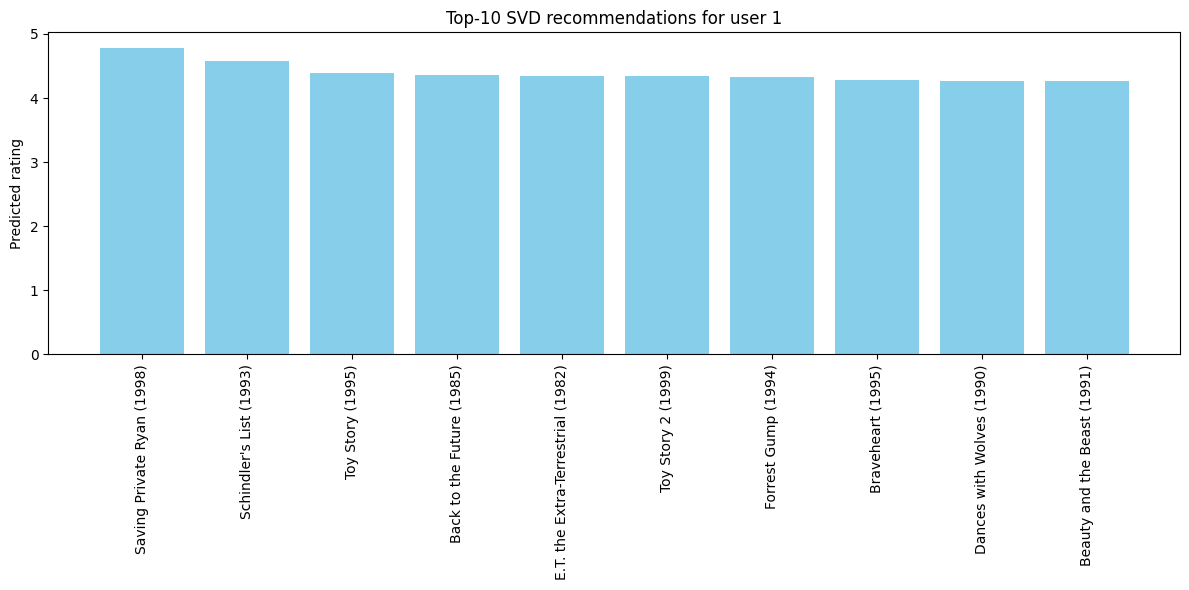
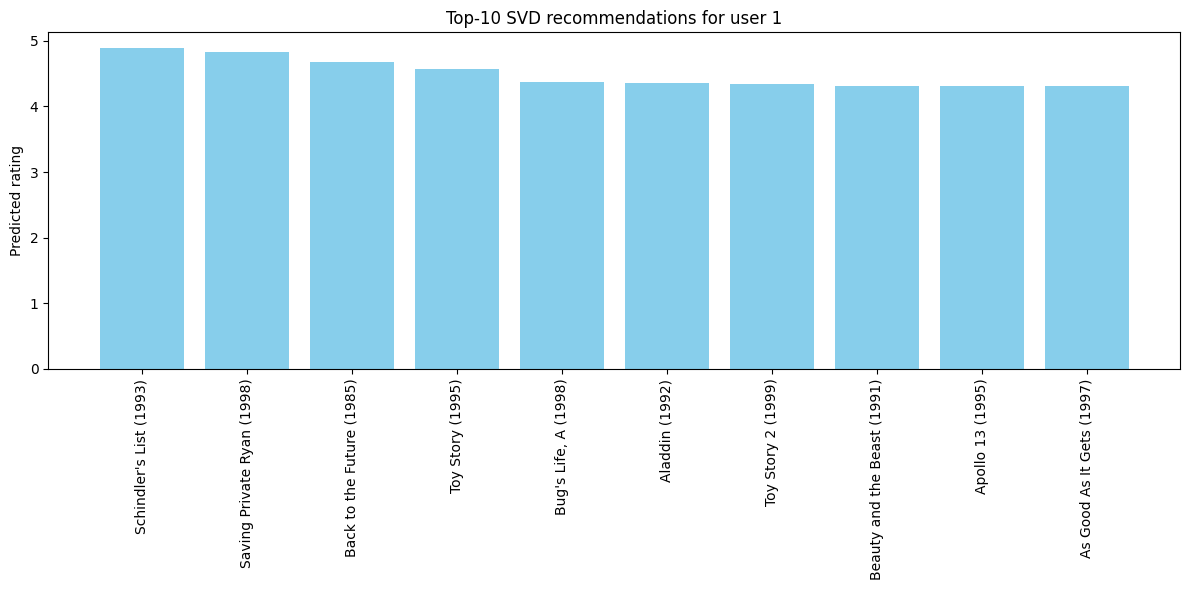
Tune PMF, keep SVD baseline, and refresh evaluation plots

diff --git a/models/pmf_model.py b/models/pmf_model.py
@@ -93,19 +93,22 @@ class PMF:
         """
         Predict rating for a given user_id and item_id.
         """
-        if (user_id not in self.user_id_to_index) or (item_id not in self.item_id_to_index):
+        if (user_id not in self.user_id_to_index) or (
+            item_id not in self.item_id_to_index
+        ):
             return None
 
         u = self.user_id_to_index[user_id]
         i = self.item_id_to_index[item_id]
         return float(np.dot(self.U[u], self.V[i]))
 
+
 def train_pmf(
     data_dir: str = "data",
     reports_dir: str = "reports",
-    num_factors: int = 50,
-    learning_rate: float = 0.01,
-    reg: float = 0.1,
+    num_factors: int = 75,
+    learning_rate: float = 0.005,
+    reg: float = 0.05,
     num_epochs: int = 30,
 ):
     # Get train/test ratings
@@ -134,7 +137,9 @@ def train_pmf(
     # Convergence plot (MSE vs iteration)
     os.makedirs(reports_dir, exist_ok=True)
     plt.figure()
-    plt.plot(range(1, len(pmf.train_mse_history) + 1), pmf.train_mse_history, marker="o")
+    plt.plot(
+        range(1, len(pmf.train_mse_history) + 1), pmf.train_mse_history, marker="o"
+    )
     plt.xlabel("Epoch")
     plt.ylabel("Train MSE")
     plt.title("PMF convergence")
@@ -155,7 +160,14 @@ def train_pmf(
             except json.JSONDecodeError:
                 metrics = {}
 
+    # Store PMF RMSE
     metrics["PMF_RMSE"] = pmf_rmse
+
+    # Compute improvement percentage if SVD_RMSE is available
+    svd_rmse = metrics.get("SVD_RMSE", None)
+    if svd_rmse is not None and svd_rmse > 0:
+        improvement = (svd_rmse - pmf_rmse) / svd_rmse * 100.0
+        metrics["PMF_vs_SVD_improvement_%"] = improvement
 
     with open(metrics_path, "w") as f:
         json.dump(metrics, f, indent=2)
@@ -165,8 +177,9 @@ def train_pmf(
 
 def compute_pmf_rmse_on_test(pmf: PMF, test_df: pd.DataFrame) -> float:
     # Filter to users/items known to PMF
-    mask = test_df["user_id"].isin(pmf.user_id_to_index.keys()) & \
-           test_df["movie_id"].isin(pmf.item_id_to_index.keys())
+    mask = test_df["user_id"].isin(pmf.user_id_to_index.keys()) & test_df[
+        "movie_id"
+    ].isin(pmf.item_id_to_index.keys())
     test_filtered = test_df[mask].copy()
 
     preds = []

diff --git a/tests/test_pmf_tuning.py b/tests/test_pmf_tuning.py
@@ -1,0 +1,21 @@
+from models.pmf_model import train_pmf
+
+if __name__ == "__main__":
+    settings = [
+        {"num_factors": 50, "learning_rate": 0.005, "reg": 0.1, "num_epochs": 30},
+        {"num_factors": 50, "learning_rate": 0.005, "reg": 0.05, "num_epochs": 30},
+        {"num_factors": 75, "learning_rate": 0.005, "reg": 0.05, "num_epochs": 30},
+    ]
+
+    for s in settings:
+        print(
+            f"\nPMF with factors={s['num_factors']}, "
+            f"lr={s['learning_rate']}, reg={s['reg']}, epochs={s['num_epochs']}"
+        )
+        _, rmse = train_pmf(
+            num_factors=s["num_factors"],
+            learning_rate=s["learning_rate"],
+            reg=s["reg"],
+            num_epochs=s["num_epochs"],
+        )
+        print(f"PMF RMSE: {rmse:.6f}")

diff --git a/app.py b/app.py
@@ -86,21 +86,25 @@ def main():
     k = st.sidebar.slider(
         "SVD latent factors (k)", min_value=10, max_value=200, value=50, step=10
     )
+
     num_factors = st.sidebar.slider(
-        "PMF latent factors", min_value=10, max_value=200, value=50, step=10
+        "PMF latent factors", min_value=10, max_value=200, value=75, step=5
     )
+
     learning_rate = st.sidebar.select_slider(
         "PMF learning rate",
         options=[0.001, 0.005, 0.01, 0.02],
-        value=0.01,
+        value=0.005,
     )
+
     reg = st.sidebar.select_slider(
         "PMF regularization",
         options=[0.01, 0.05, 0.1, 0.2],
-        value=0.1,
+        value=0.05,
     )
+
     num_epochs = st.sidebar.slider(
-        "PMF epochs", min_value=5, max_value=50, value=10, step=5
+        "PMF epochs", min_value=5, max_value=50, value=30, step=5
     )
 
     if user_id not in valid_user_ids:

diff --git a/tests/test_svd.py b/tests/test_svd.py
@@ -1,0 +1,7 @@
+from models.svd_model import train_svd
+
+if __name__ == "__main__":
+    for k in [50, 100, 150]:
+        print(f"\nTraining SVD with k = {k}")
+        _, rmse = train_svd(k=k)
+        print(f"SVD RMSE (k={k}): {rmse}")

diff --git a/README.md b/README.md
@@ -1,24 +1,30 @@
 # Advanced Movie Recommender System
 
-This project implements an advanced movie recommender system using **Singular Value Decomposition (SVD)** and **Probabilistic Matrix Factorization (PMF)** on the MovieLens 1M dataset.
+This project implements an advanced movie recommender system using **Singular Value Decomposition (SVD)** and **Probabilistic Matrix Factorization (PMF)** on the MovieLens 1M dataset.  
+The system generates personalized movie recommendations, compares model performance, and exposes everything through an interactive **Streamlit** dashboard.
 
-The system generates personalized movie recommendations for users, compares model performance, and provides an interactive dashboard built with **Streamlit**.
+---
 
 ## Features
 
 - Load and preprocess the MovieLens 1M dataset
-- Build a normalized user-item interaction matrix
+- Build a normalized user–item interaction matrix
 - Train an SVD model using `scipy.sparse.linalg.svds`
-- Train a PMF model using iterative gradient descent
-- Evaluate both models using RMSE
-- Generate top-N movie recommendations
+- Train a PMF model using gradient descent with regularization
+- Evaluate both models using **RMSE**
+- Generate top‑N movie recommendations per user
 - Visualize:
-  - PMF convergence
-  - RMSE comparison
-  - Predicted vs actual ratings
-  - User-level SVD vs PMF prediction comparison
-  - Top recommended movies
-- Interactive Streamlit dashboard with user ID input and model comparison
+  - PMF convergence (MSE vs epoch)
+  - RMSE comparison between SVD and PMF
+  - Predicted vs actual ratings for SVD
+  - User‑level SVD vs PMF prediction comparison
+  - Top recommended movies for a selected user
+- Interactive Streamlit dashboard:
+  - User ID input
+  - SVD vs PMF recommendation tables
+  - Hyperparameter sliders (e.g., number of factors, learning rate, regularization, epochs)
+
+---
 
 ## Project Structure
 
@@ -32,7 +38,7 @@ matrix-factorization-project/
 │
 ├── models/
 │   ├── svd_model.py
-│   ├── pmf_model.py
+│   └── pmf_model.py
 │
 ├── utils/
 │   ├── data_loader.py
@@ -50,7 +56,8 @@ matrix-factorization-project/
 │   ├── predicted_vs_actual.png
 │   ├── user_comparison.png
 │   ├── top_recommendations.png
-│   └── user_<id>_recommendations.csv
+│   ├── user_<id>_svd_recommendations.csv
+│   └── user_<id>_pmf_recommendations.csv
 │
 ├── app.py
 ├── requirement.txt
@@ -58,17 +65,23 @@ matrix-factorization-project/
 └── README.md
 ```
 
+---
+
 ## Dataset
 
-Download the MovieLens 1M dataset from the official GroupLens website:
+The project uses the **MovieLens 1M** dataset from GroupLens.
+
+Download from:
 
 - https://grouplens.org/datasets/movielens/1m/
 
-Place these files in the `data/` folder:
+Place these files into the `data/` folder:
 
 - `ratings.dat`
 - `users.dat`
 - `movies.dat`
+
+---
 
 ## Installation
 
@@ -78,65 +91,128 @@ Create and activate a virtual environment, then install dependencies:
 pip install -r requirement.txt
 ```
 
+---
+
 ## How to Run
 
-### Run the Streamlit app
+### Streamlit app
+
+Run the main dashboard:
 
 ```bash
 streamlit run app.py
 ```
 
-### Run model tests manually
+This will:
+
+- Load the processed user–item matrix
+- Train or load SVD and PMF models
+- Open a web UI where you can:
+  - Select a user ID
+  - See the user’s rating history
+  - Compare SVD and PMF recommendations
+  - Inspect evaluation plots
+
+---
+
+## Testing
+
+A set of simple test scripts is provided to verify each step of the pipeline:
 
 ```bash
-python test_load_ratings.py
-python test_matrix_creation.py
-python test_svd.py
-python test_pmf.py
-python test_recommendations.py
-python test_top_recs_plot.py
+python test_load_ratings.py          # checks data loading
+python test_matrix_creation.py       # checks user–item matrix creation
+python test_svd.py                   # trains SVD and computes RMSE
+python test_pmf.py                   # trains PMF and computes RMSE
+python test_recommendations.py       # checks top‑N recommendation logic
+python test_top_recs_plot.py         # generates top_recommendations.png
+python test_svd_tuning.py            # (optional) explores SVD k values
+python test_pmf_tuning.py            # (optional) explores PMF hyperparameters
 ```
+
+These scripts help ensure that:
+
+- Metrics in `reports/model_metrics.json` are up to date
+- Plots in `reports/` reflect the latest models
+- Recommendation logic runs end‑to‑end without errors
+
+---
 
 ## Models
 
-### SVD
+### Singular Value Decomposition (SVD)
 
-SVD factorizes the normalized user-item matrix into lower-dimensional latent factors using truncated singular value decomposition.
+SVD factorizes the normalized user–item rating matrix into:
 
-### PMF
+- A user latent factor matrix
+- A diagonal matrix of singular values
+- An item latent factor matrix
 
-PMF models user and movie latent vectors and learns them using gradient descent with regularization.
+Using a truncated SVD (rank \(k\)), the model reconstructs an approximation of the rating matrix and uses it to predict unseen ratings.
+
+### Probabilistic Matrix Factorization (PMF)
+
+PMF models:
+
+- A latent vector for each user
+- A latent vector for each item
+
+The rating \(r\_{ui}\) is modeled as an inner product \(U_u \cdot V_i\), learned via gradient descent with L2 regularization. Hyperparameters (number of factors, learning rate, regularization, epochs) are tuned to reduce RMSE on a held‑out test set.
+
+---
 
 ## Evaluation Metrics
 
-The models are evaluated using:
+The main evaluation metric is **Root Mean Squared Error (RMSE)** on a test split.  
+Additional signals:
 
-- RMSE
-- MSE during PMF convergence
+- PMF training MSE per epoch (used to monitor convergence)
 
-Saved metrics can be found in:
+Metrics are stored in:
 
-- `reports/model_metrics.json`
+- `reports/model_metrics.json`, e.g.:
+
+```json
+{
+  "SVD_RMSE": ...,
+  "PMF_RMSE": ...,
+  "PMF_vs_SVD_improvement_%": ...
+}
+```
+
+The improvement percentage quantifies how much PMF reduces RMSE relative to SVD.
+
+---
 
 ## Streamlit Dashboard
 
-The dashboard allows the user to:
+The dashboard includes:
 
-- Enter a user ID
-- View top-rated movies
-- View SVD and PMF recommendations
-- Compare model metrics
-- See saved visualizations
-- Tune model hyperparameters in the sidebar
+- **Sidebar controls**:
+  - User ID selector
+  - SVD latent factor slider (k)
+  - PMF hyperparameter controls (latent factors, learning rate, regularization, epochs)
+- **Tabs**:
+  - History: user’s top‑rated movies
+  - SVD Recommendations: SVD top‑N recommendations
+  - PMF Recommendations: PMF top‑N recommendations
+  - Plots: RMSE comparison, predicted vs actual, PMF convergence, user-level comparison, top‑N bar charts
+
+Recommendation tables and plots update according to the selected user and current hyperparameters.
+
+---
 
 ## Future Improvements
 
-- Better PMF tuning for lower RMSE
-- Save/load trained PMF factors without retraining
-- Filter out already-rated movies from recommendations
-- Improve ranking metrics such as Precision@K and Recall@K
-- Add movie search and surprise recommendation mode
+- Further PMF hyperparameter tuning for even lower RMSE
+- Save and reload trained PMF factors to avoid retraining in the app
+- Filter out already-rated movies from recommendation lists
+- Add ranking metrics (Precision@K, Recall@K, NDCG)
+- Integrate movie metadata search and a “surprise me” recommendation mode
+- Experiment with additional models (e.g., NMF, neural collaborative filtering)
+
+---
 
 ## Learning Outcome
 
-This project demonstrates how matrix factorization techniques can be applied in recommender systems and how different factorization models compare in both prediction quality and usability.
+This project shows how matrix factorization methods can be applied in recommender systems, how to evaluate them with RMSE, and how to compare different models (SVD vs PMF) in both offline metrics and an interactive UI.